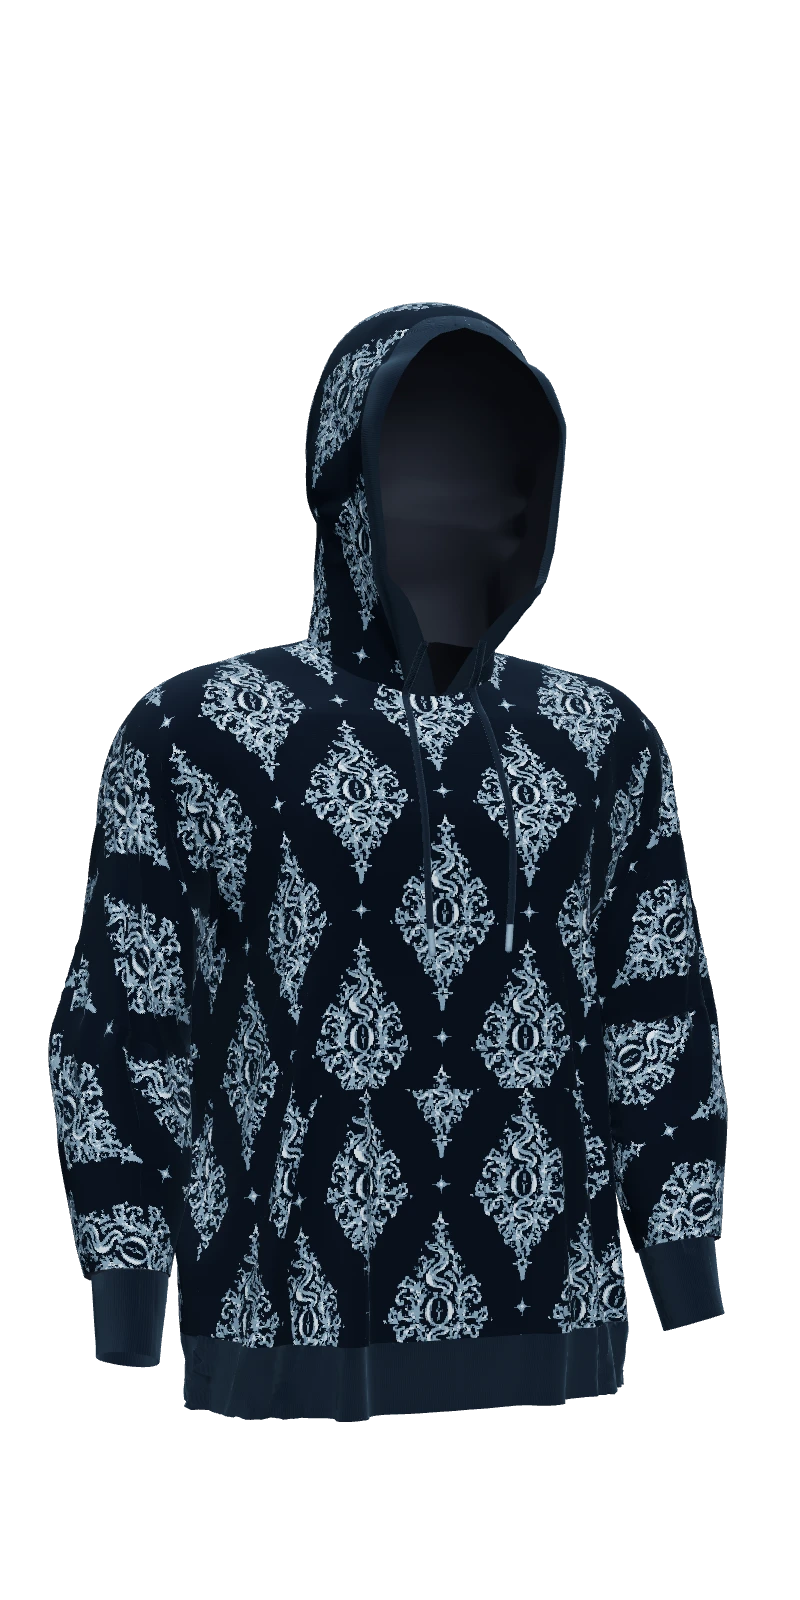
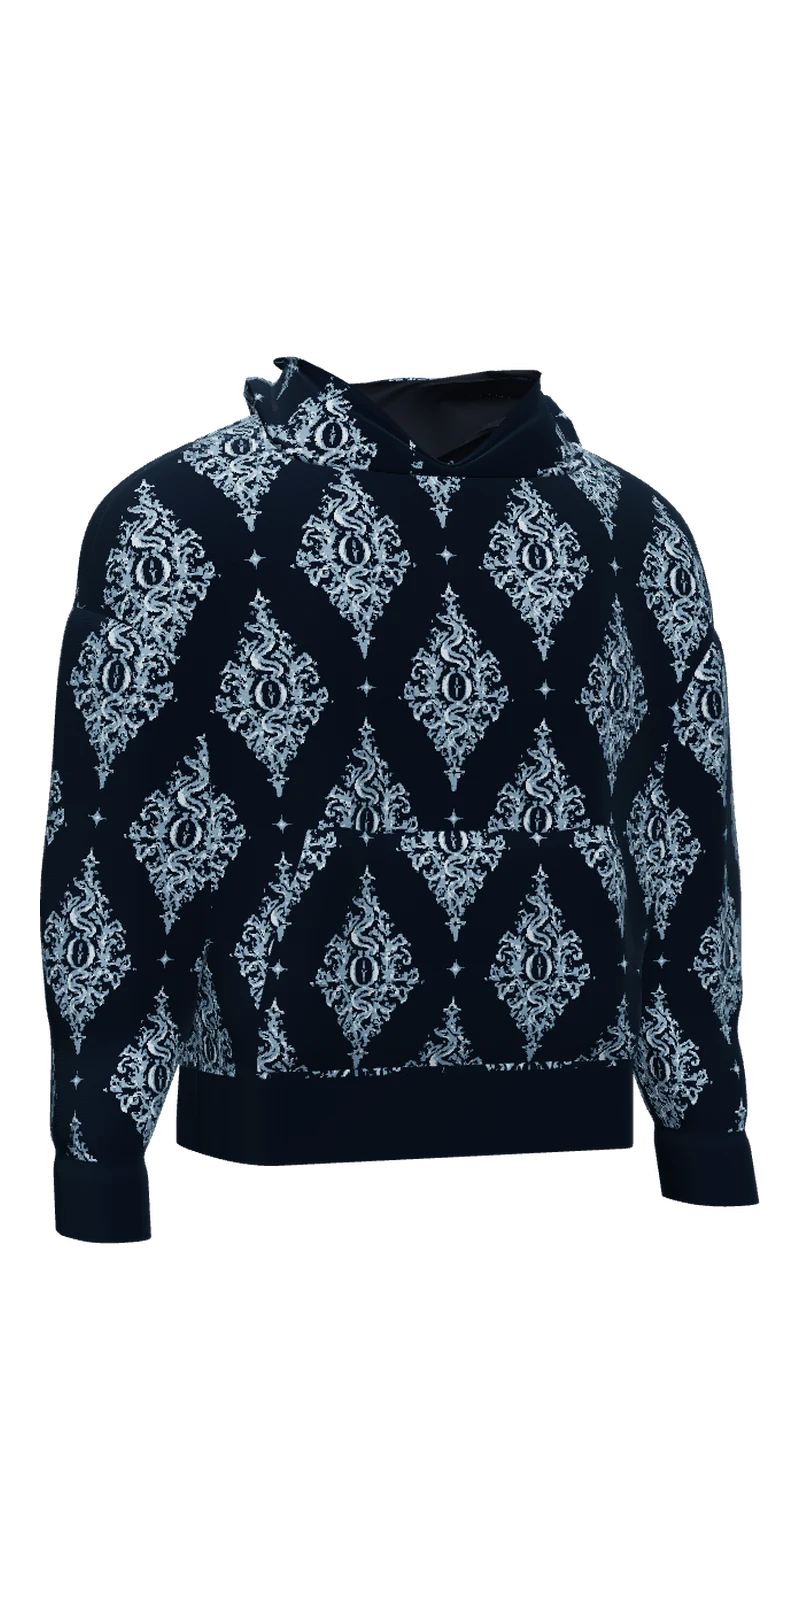
Drop 001: the piece is the mannequin's hoodie (model A), framed to fit a phone
The turning piece loads hero_hoodie_film, the very hoodie the fitting room's
mannequin wears, with the fitting room's stitch relief. Framed on its width as
well as its height so the oversized cut's sleeves are not cropped on a phone.
The still shown before the 3D loads is that hoodie too.

Claude-Session: https://claude.ai/code/session_01Xop3ozbggUZYCZH84byUWU

diff --git a/index.html b/index.html
@@ -2198,7 +2198,9 @@ async function init(){
   const camera = new THREE.PerspectiveCamera(26, 1, .05, 20);
   const loader = new GLTFLoader();
   loader.setMeshoptDecoder(MeshoptDecoder);
-  const r = await fetch("drop/assets/hero_hoodie.glb.txt");
+  /* the very hoodie the fitting room's mannequin wears (construction's model A, the Serpent Emblem jacquard at the
+     28-gauge stitch), so the piece and the fitting room are one garment (David, 7 Nov) */
+  const r = await fetch("drop/assets/hero_hoodie_film.glb.txt");
   if (!r.ok) throw new Error("missing");
   const b64 = (await r.text()).trim();
   const bin = atob(b64), u = new Uint8Array(bin.length);
@@ -2213,6 +2215,8 @@ async function init(){
     for (const m of ms){
       for (const k of ["map", "normalMap", "aoMap"]) if (m[k]) m[k].anisotropy = 8;
       const n = (m.name || "").split(".")[0];
+      /* the stitches in relief as the fitting room shows them: prints at 2.7 times, the rib at 1.5 */
+      if (m.normalMap){ if (/print/.test(n)) m.normalScale.multiplyScalar(2.7); else if (["cuff","band","edge"].includes(n)) m.normalScale.multiplyScalar(1.5); }
       if (["fabric_print", "fabric_print_back", "hood_print", "sleeve_print"].includes(n) && m.sheen !== undefined){
         m.sheen = .35;
         if (m.sheenColor) m.sheenColor.setRGB(...slate);
@@ -2230,14 +2234,20 @@ async function init(){
   const box = new THREE.Box3().setFromObject(group);
   const c = box.getCenter(new THREE.Vector3()), s = box.getSize(new THREE.Vector3());
   g.position.sub(c);
-  const dist = (s.y / 2) / Math.tan(camera.fov * Math.PI / 360) * 1.35;
-  camera.position.set(0, 0, dist);
-  camera.lookAt(0, 0, 0);
+  /* framed on its height and, as it turns, on its widest (the diagonal across the chest): model A is an oversized
+     cut with dropped shoulders, and a phone's tall frame cropped its sleeves when only the height was used */
+  const half = Math.tan(camera.fov * Math.PI / 360), across = Math.hypot(s.x, s.z);
+  function frameIt(){
+    const dist = Math.max((s.y / 2) / half * 1.35, (across / 2) / (half * camera.aspect) * 1.12);
+    camera.position.set(0, 0, dist);
+    camera.lookAt(0, 0, 0);
+  }
   function size(){
     const w = canvas.clientWidth || 1, h = canvas.clientHeight || 1;
     renderer.setSize(w, h, false);
     camera.aspect = w / h;
     camera.updateProjectionMatrix();
+    frameIt();
   }
   let rot = 0, drawn = null, shown = false, near = true;
   /* a phone can take the 3D away (memory, the app sent to the back): the still comes back at once,
